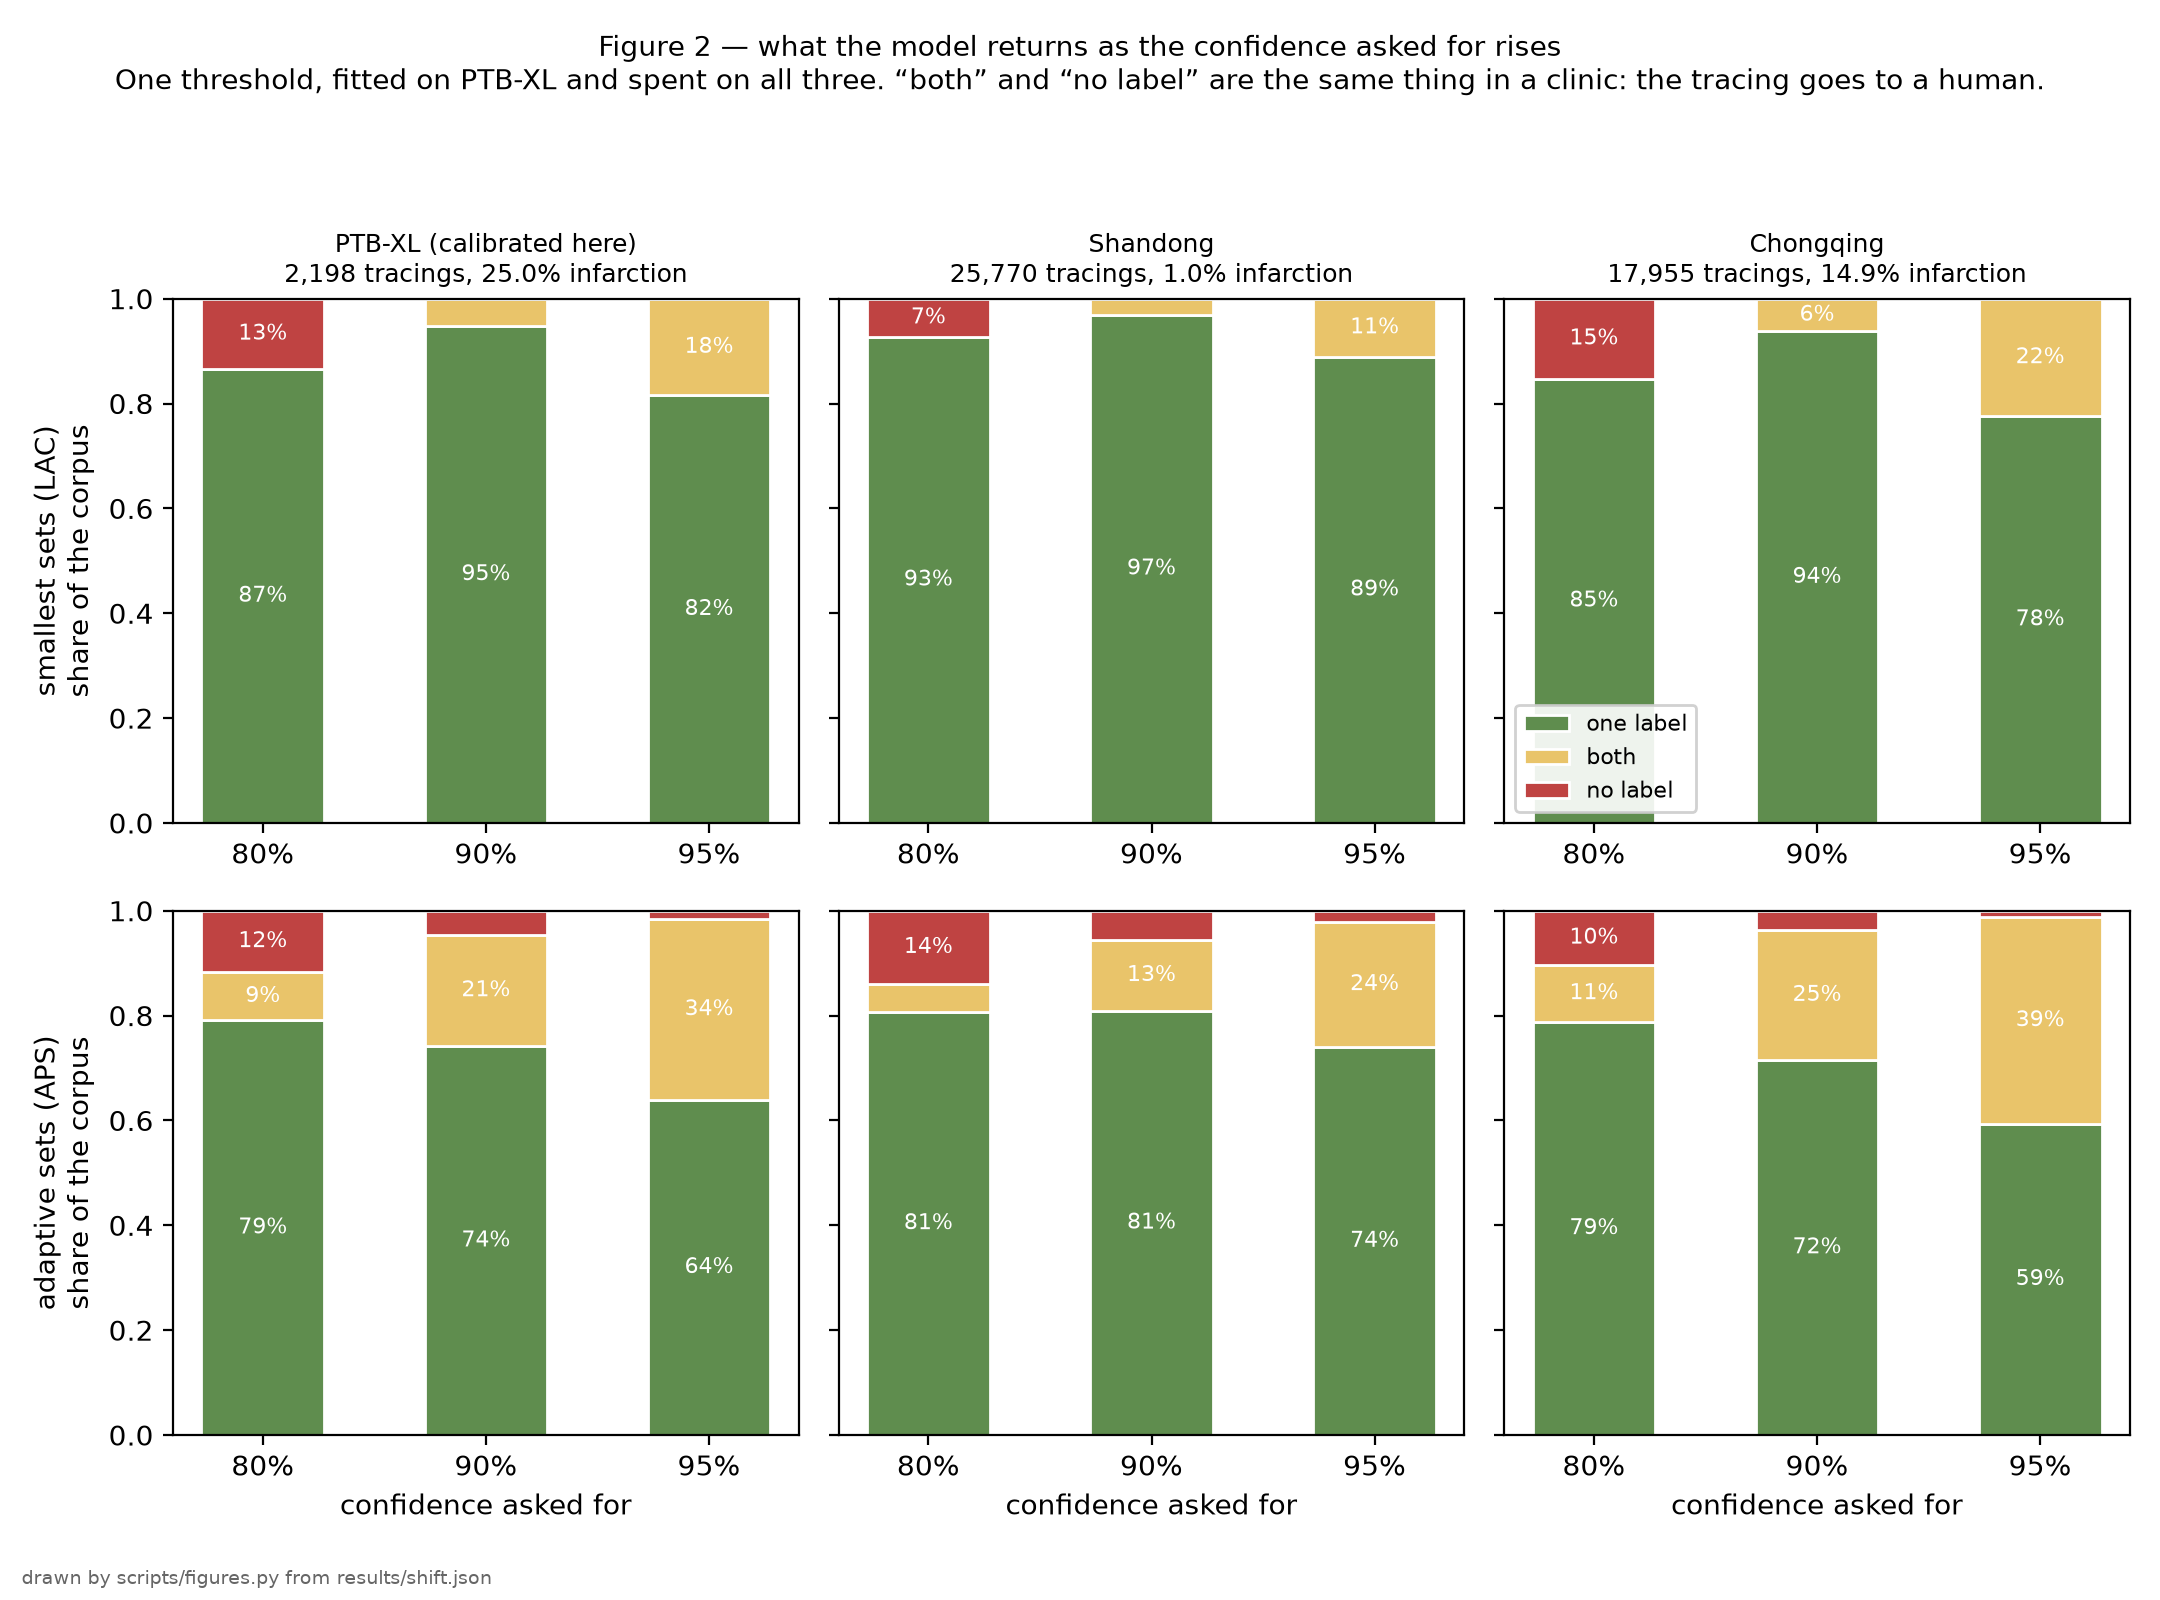
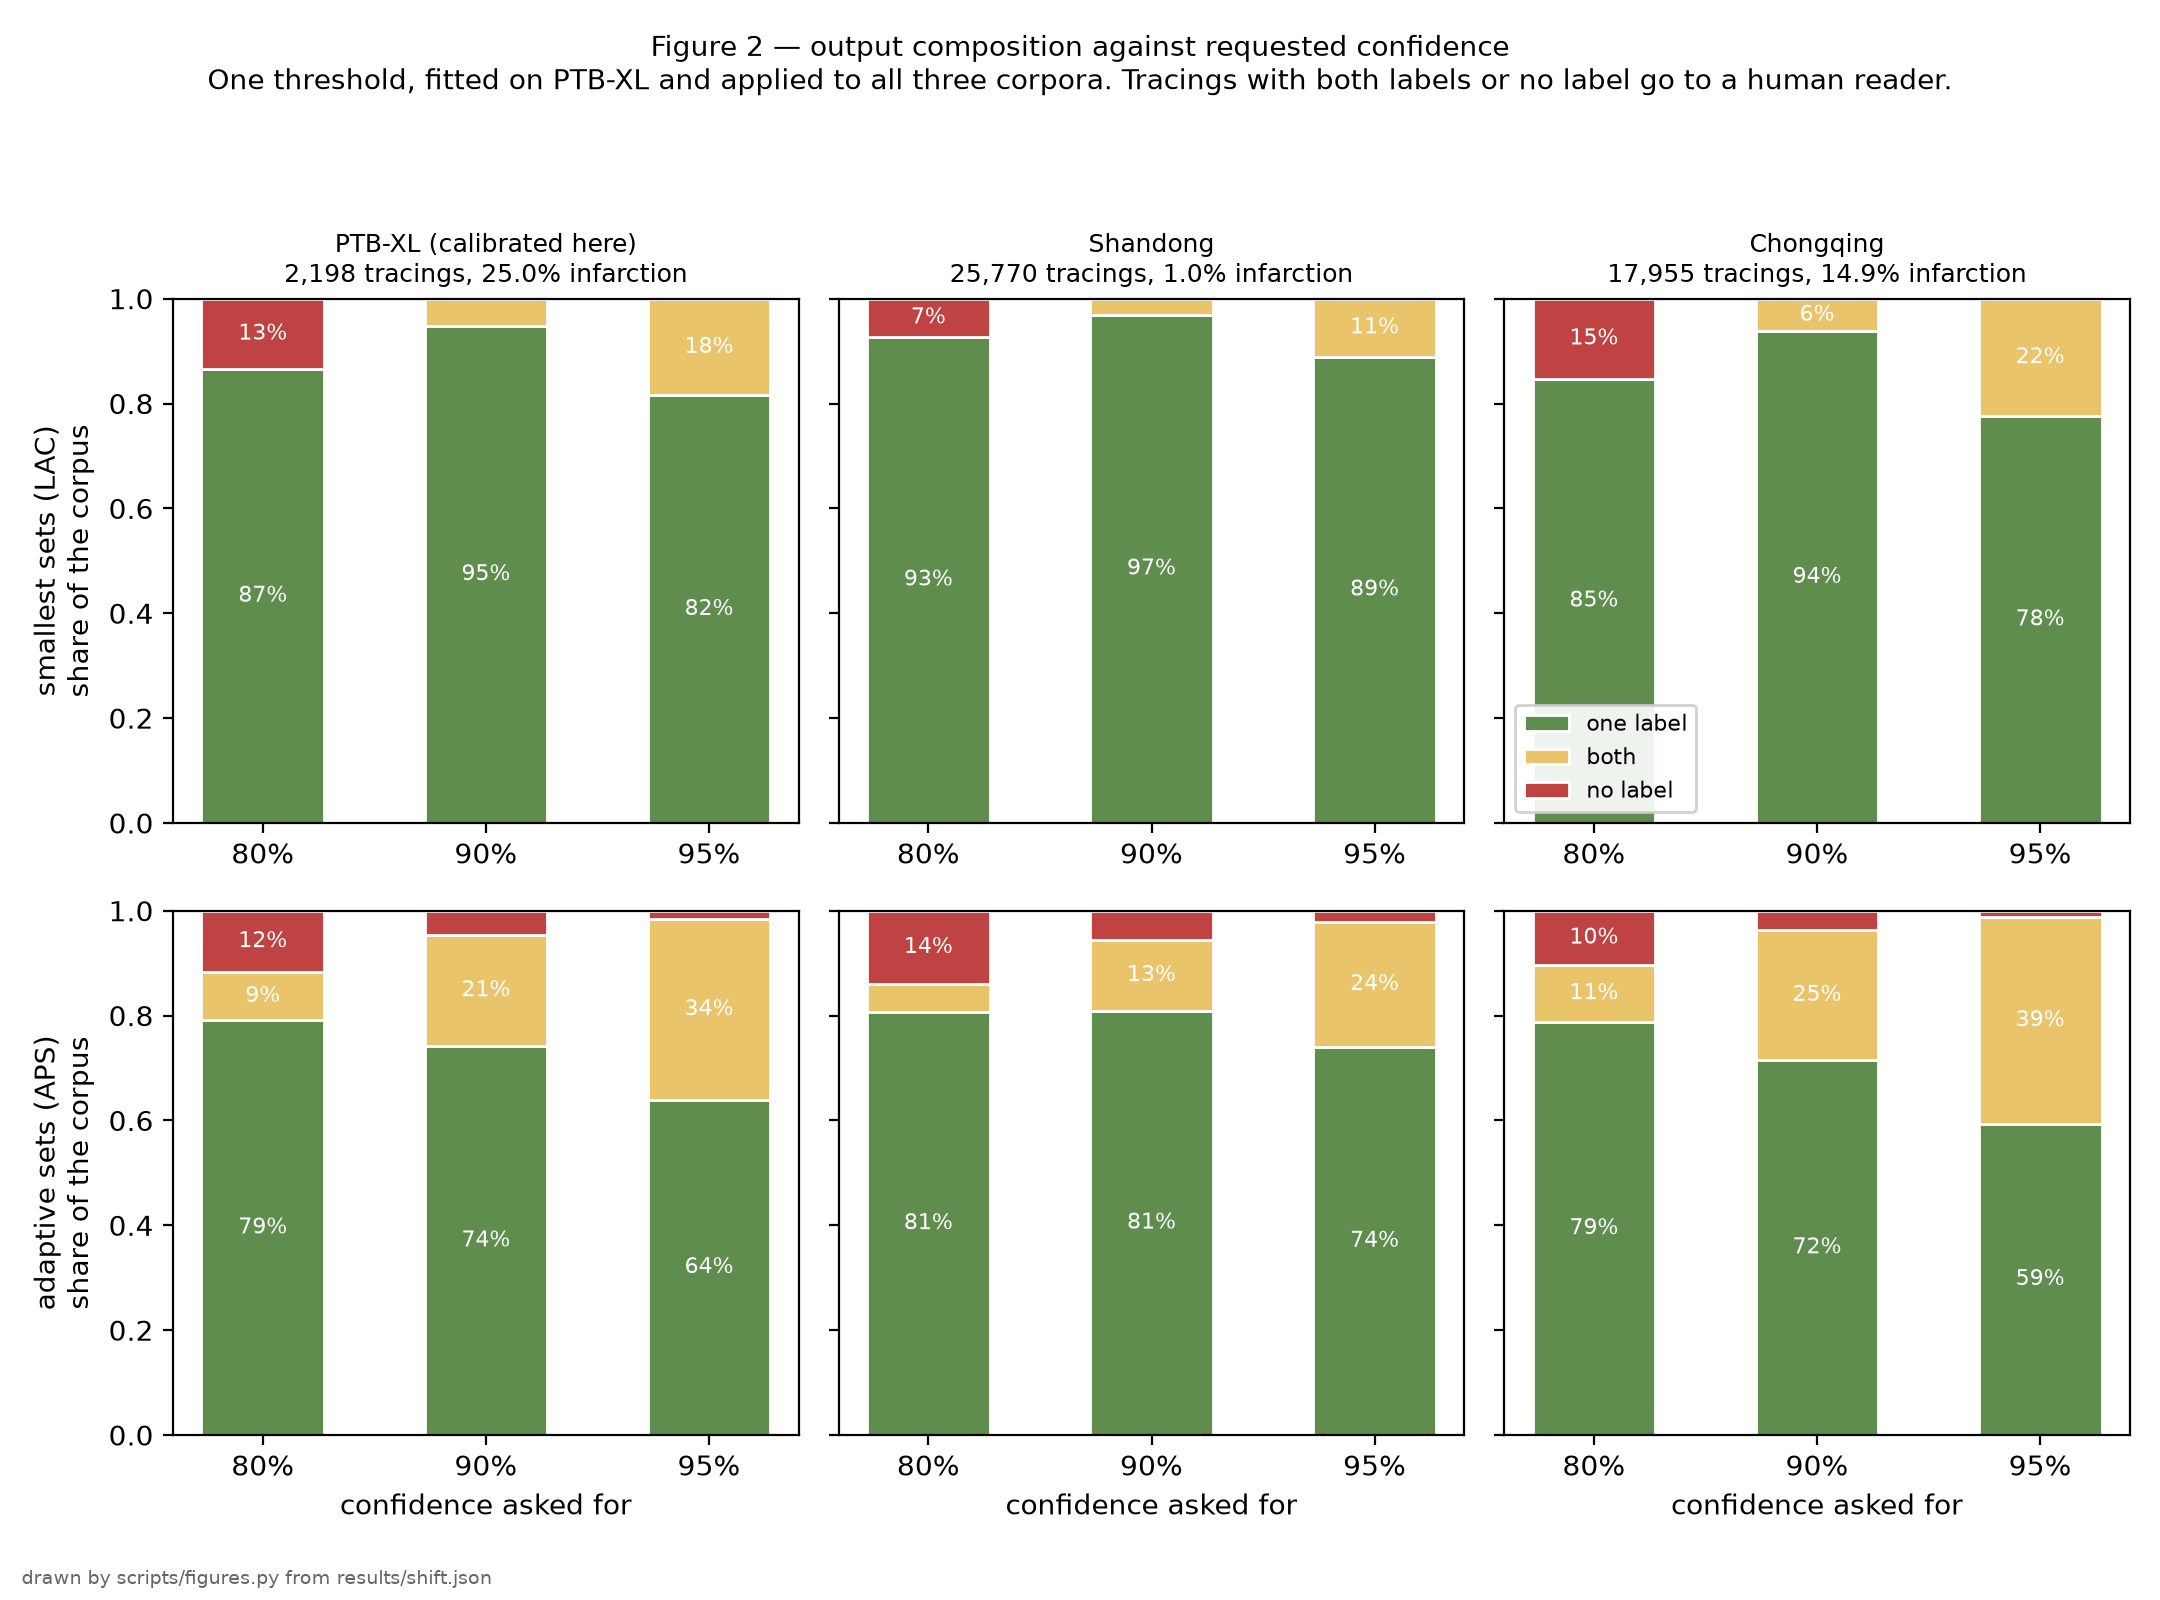
Simplify figure titles and PLAN.md formatting
Figure titles are plain descriptions; the four PNGs are regenerated
from the committed results files. Minor wording edits in README.md and
REPORT.md.

Changed region(s): [[0.062, 0.0, 0.9306, 0.0625]]

diff --git a/scripts/figures.py b/scripts/figures.py
@@ -11,8 +11,8 @@ memory, and a surprising result cannot be quietly re-cut.
 3. Encoder arms on the same break -- does the encoder underneath change how far
    the guarantee falls, and does an encoder that saw the calibration corpus look
    better at home for a reason other than being better.
-4. Baseline discrimination -- the reproduction of known ground that licenses
-   everything else.
+4. Baseline discrimination -- AUROC and AUPRC against the published reference
+   value.
 
 Figures 1 and 2 read ``results/shift.json``, where one PTB-XL threshold was
 spent on all three corpora at once, so the panels differ in nothing but the
@@ -204,12 +204,11 @@ def figure_1_coverage(table: dict[str, Any], out: Path, source: Path) -> Path:
         for corpus, block in _rows(table, "lac", "weighted")[1]["by_corpus"].items()
     )
     figure.suptitle(
-        "Figure 1 — one PTB-XL calibration, three hospitals, three corrections\n"
-        f"Share of infarctions inside the 90% set on PTB-XL itself: {quoted}. "
-        "Only the exact correction closes that gap, and it closes it at home too.\n"
-        f"Dashed line: the level asked for. Bars: mean over {table['n_draws']} calibration "
+        "Figure 1 — coverage per hospital and correction\n"
+        f"Share of infarctions inside the 90% set on PTB-XL: {quoted}.\n"
+        f"Dashed line: the requested level. Bars: mean over {table['n_draws']} calibration "
         "draws on PTB-XL, whiskers one standard deviation.\n"
-        f"The weighted thresholds read each corpus's unlabelled class mix: {estimated}.",
+        f"The weighted thresholds use each corpus's estimated class mix: {estimated}.",
         fontsize=9,
         y=0.995,
         va="top",
@@ -268,9 +267,9 @@ def figure_2_set_sizes(table: dict[str, Any], out: Path, source: Path) -> Path:
         )
     axes[0][-1].legend(loc="lower left", fontsize=8, framealpha=0.9)
     figure.suptitle(
-        "Figure 2 — what the model returns as the confidence asked for rises\n"
-        "One threshold, fitted on PTB-XL and spent on all three. “both” and “no label” are the "
-        "same thing in a clinic: the tracing goes to a human.",
+        "Figure 2 — output composition against requested confidence\n"
+        "One threshold, fitted on PTB-XL and applied to all three corpora. Tracings with "
+        "both labels or no label go to a human reader.",
         fontsize=10,
     )
     figure.tight_layout(rect=(0, 0.03, 1, 0.94))
@@ -368,7 +367,7 @@ def figure_3_arms(arms: dict[str, Any], out: Path, source: Path) -> Path:
     worst = max(ARM_ORDER, key=lambda a: _headline_row(arms, a)["coverage_gap"]["acs"]["mean"])
     best = min(ARM_ORDER, key=lambda a: _headline_row(arms, a)["coverage_gap"]["acs"]["mean"])
     figure.suptitle(
-        "Figure 3 — four encoders, one break\n"
+        "Figure 3 — coverage gap per encoder arm\n"
         f"Gap to Chongqing runs from {plain[best]} "
         f"{_headline_row(arms, best)['coverage_gap']['acs']['mean']:+.3f} to {plain[worst]} "
         f"{_headline_row(arms, worst)['coverage_gap']['acs']['mean']:+.3f}.\n"
@@ -428,7 +427,7 @@ def figure_4_discrimination(
     axis.set_ylim(0, 1.12)
     axis.set_ylabel("PTB-XL fold 10, infarction against the rest")
     axis.set_title(
-        "Figure 4 — the baseline reproduces known ground\n"
+        "Figure 4 — baseline discrimination against the published reference\n"
         f"{metrics['n_test']} tracings, {metrics['n_test_positive']} of them infarction; "
         "whiskers are 95% bootstrap intervals.\n"
         "The published figure averages five diagnostic superclasses, not infarction alone.",

diff --git a/PLAN.md b/PLAN.md
@@ -56,8 +56,8 @@ Each maps to a named test. Unchecked means unverified, not done.
 ## The ingestion contract
 
 Every corpus is reduced to one canonical form before anything else touches it:
-**float32, shape (N, 12, 5000) — ten seconds, 500 Hz, millivolts, leads in the
-order I, II, III, aVR, aVL, aVF, V1-V6.** Records carrying a NaN or Inf sample
+float32, shape (N, 12, 5000) — ten seconds, 500 Hz, millivolts, leads in the
+order I, II, III, aVR, aVL, aVF, V1-V6. Records carrying a NaN or Inf sample
 are dropped and counted. This is the form prescribed in arXiv:2602.17531, which
 the ptbxl5d report already cites, so it is a convention with a citation behind
 it rather than a house style.
@@ -71,7 +71,7 @@ rather than absorbed silently.
 
 Four deviations are known in advance and none can be fully removed:
 
-- **Resampling.** PTB-XL and Shandong are natively 500 Hz; EchoNext is 250 Hz,
+- Resampling. PTB-XL and Shandong are natively 500 Hz; EchoNext is 250 Hz,
   INCART 257 Hz, PTB 1000 Hz. Upsampling invents detail and downsampling discards
   it, so resampling is itself a source of apparent shift. Polyphase resampling
   with anti-aliasing (`scipy.signal.resample_poly`) is the defensible choice, and
@@ -117,17 +117,17 @@ Named now so that day 4 onwards produces them instead of inventing them, and so
 that a surprising or negative coverage result stays in the report rather than
 being re-cut. Each is drawn by `scripts/figures.py` from a results file.
 
-1. **Coverage against target.** Empirical coverage of the 90 % set on PTB-XL
+1. Coverage against target. Empirical coverage of the 90 % set on PTB-XL
    (in distribution), Shandong and Chongqing, per class (MI / non-MI), with the
    spread over ≥100 calibration draws. One panel per correction: none, Mondrian,
    label-shift weighted.
-2. **Set-size distribution.** Histogram of set sizes per corpus; the share of
+2. Set-size distribution. Histogram of set sizes per corpus; the share of
    empty, singleton and full sets. Smaller is not better — the spread is what
    shows the model separating easy from hard tracings.
-3. **Encoder arms on the same break.** Coverage gap (source minus target) per
+3. Encoder arms on the same break. Coverage gap (source minus target) per
    arm, with bootstrapped intervals and paired differences: random-init frozen,
    ECGFounder, ECG-FM, HuBERT-ECG if its contamination claim verifies.
-4. **Baseline discrimination.** AUROC and AUPRC per corpus with intervals; the
+4. Baseline discrimination. AUROC and AUPRC per corpus with intervals; the
    reproduction of a published value that validates the setup.
 
 The numbers behind every figure live in `results/` as JSON or CSV and are
@@ -136,28 +136,28 @@ PTB-XL calibration; nothing is tuned on Shandong or Chongqing.
 
 ## Days
 
-1. **Mon 24 — the ingestion contract, then the timing probe.** In this order:
+1. Mon 24 — the ingestion contract, then the timing probe. In this order:
    start the Chongqing waveform download in the background; build the
    canonical loader (C-13 to C-15) and patient-level splits (C-4); then put one
    hundred tracings through every encoder arm, stopwatch out, and write the
    seconds per hundred records to `results/timing.json`. That number sizes
-   every experiment this week. **No training run starts before it exists.**
+   every experiment this week. No training run starts before it exists.
    Evidence the day is done: the loader tests pass on all three corpora, the
    split test passes, and `timing.json` has one row per arm (or a named reason
    an arm could not be timed).
-2. **Tue 25 — abstention table on PTB-XL.** Conformal wired to the model, C-5
+2. Tue 25 — abstention table on PTB-XL. Conformal wired to the model, C-5
    verified in distribution, silence rate against set size. Reproduces known
    ground.
-3. **Wed 26 — the break.** Calibrate on PTB-XL, measure on SPH then ACS-ECG.
+3. Wed 26 — the break. Calibrate on PTB-XL, measure on SPH then ACS-ECG.
    Publishable either way: a clear break is a result and a negligible one is a
    valid null result.
-4. **Thu 27 — three encoders on the same break.** ECG-FM (saw PTB-XL),
+4. Thu 27 — three encoders on the same break. ECG-FM (saw PTB-XL),
    ECGFounder (saw no public corpus), supervised-from-scratch. The gap between
    the first two is the contamination measurement.
-5. **Fri 28 — exact correction vs estimated.** Mondrian against label-shift
+5. Fri 28 — exact correction vs estimated. Mondrian against label-shift
    weighting, effective sample size on both (C-9), and a reasoned answer to
    which one this shift needed.
-6. **Mon 31 — the page a cardiologist can read.** Plus the ten questions the
+6. Mon 31 — the page a cardiologist can read. Plus the ten questions the
    object will trigger, answered in writing.
 
 Compute budget (`results/timing.json`): seconds per hundred PTB-XL records
@@ -166,8 +166,8 @@ ResNet1d 12.65 · ECGFounder 38.95 · HuBERT-ECG 101.46 · ECG-FM 173.81. Every
 arm loads under the pinned torch 2.2.2 (ECG-FM in its own environment,
 `scripts/setup_ecgfm_env.sh`). A full pass over the ~67,000 records costs, at
 that speed, about 2 h, 7 h, 19 h and 33 h respectively. Each encoder's
-representations (one vector per tracing) are therefore computed **once per arm
-on `esprimo`, as overnight jobs in cost order, and cached**; every conformal
+representations (one vector per tracing) are therefore computed once per arm
+on `esprimo`, as overnight jobs in cost order, and cached; every conformal
 experiment runs on the cache in seconds. Caching a representation is within
 C-14b, which is about waveforms: a representation is a computed result, not a
 rewritten tracing.
@@ -196,8 +196,8 @@ it: its licence is CC BY-NC 4.0, which permits a public research demonstration
 but excludes anything the venture ships (D-059 excluded it on venture grounds;
 a demonstration is not a product, and that distinction is Ruben's call). And the
 claim that its pre-training included SPH is second-hand — the audit could not
-fetch medRxiv directly and relied on a search-retrieved quote. **Verify that at
-source before Thursday, because the bottom row rests entirely on it.**
+fetch medRxiv directly and relied on a search-retrieved quote. Verify that at
+source before Thursday, because the bottom row rests entirely on it.
 
 ## Hardware
 

diff --git a/REPORT.md b/REPORT.md
@@ -1,6 +1,6 @@
 # Report
 
-This repository measures whether a conformal coverage guarantee survives a change of hospital. A classifier trained on a German ECG corpus is calibrated so that its output contains the correct diagnosis for 90% of patients. The guarantee assumes that calibration patients and new patients come from the same distribution. We applied the calibrated model to two Chinese hospital corpora without re-calibration and measured what happened. Coverage degraded differently at each hospital. Of the two standard corrections, per-class calibration recovered most of the loss and reweighting by an estimated class mix had little effect.
+This is a measurement of whether a conformal coverage guarantee survives a change of hospital. A classifier trained on a German ECG corpus is calibrated so that its output contains the correct diagnosis for 90% of patients. The guarantee assumes that calibration patients and new patients come from the same distribution. We applied the calibrated model to two Chinese hospital corpora without re-calibration and measured what happened. Coverage degraded differently at each hospital. Of the two standard corrections, per-class calibration recovered most of the loss and reweighting by an estimated class mix had little effect.
 
 [README.md](README.md) documents the corpora and the reproduction commands. [QUESTIONS.md](QUESTIONS.md) answers common questions about the study.
 

diff --git a/README.md b/README.md
@@ -2,9 +2,10 @@
 
 Split conformal prediction on 12-lead ECG, calibrated on PTB-XL and evaluated
 without re-calibration on two external hospital corpora (SPH Shandong, ACS-ECG
-Chongqing). The repository measures whether the 90% coverage guarantee survives
-the change of hospital, and compares the two standard corrections: Mondrian
-per-class calibration and label-shift weighting.
+Chongqing). The question measured is whether the 90% coverage guarantee
+survives the change of hospital; the two standard corrections, Mondrian
+per-class calibration and label-shift weighting, are compared on the same
+break.
 
 The findings, the four figures and the limitations are in
 [REPORT.md](REPORT.md). Common questions are answered in
